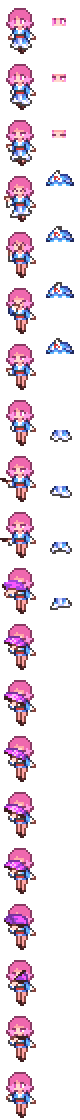
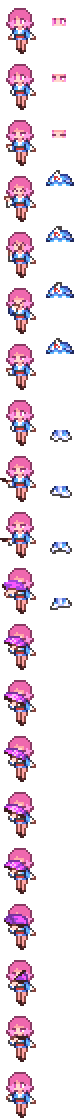
音效添加，幽幽子贴图修复

Changed region(s): [[0.125, 0.125, 0.4, 0.2188], [0.125, 0.0312, 0.4, 0.0938]]

diff --git a/Content/Projectiles/Pets/Yuyuko.cs b/Content/Projectiles/Pets/Yuyuko.cs
@@ -1,6 +1,8 @@
 using Microsoft.Xna.Framework;
 using Microsoft.Xna.Framework.Graphics;
+using System;
 using Terraria;
+using Terraria.Audio;
 using Terraria.ID;
 using Terraria.Utilities;
 using TouhouPets.Content.Buffs.PetBuffs;
@@ -51,10 +53,9 @@ namespace TouhouPets.Content.Projectiles.Pets
 
             Main.instance.LoadItem(food.type);
             Texture2D t = AltVanillaFunction.ItemTexture(food.type);
-            int dist = Projectile.spriteDirection == -1 ? -10 : 10;
-            Vector2 pos = Projectile.Center + new Vector2(dist, -3) + new Vector2(extraAdjX, extraAdjY) - Main.screenPosition + new Vector2(0, 7f * Main.essScale);
+            Vector2 pos = Projectile.Center + new Vector2(10 * Projectile.spriteDirection, -3) + new Vector2(extraAdjX, extraAdjY) - Main.screenPosition + new Vector2(0, 7f * Main.essScale);
             int height = t.Height / 3;
-            Rectangle rect = new Rectangle(0, height, t.Width, height);
+            Rectangle rect = new Rectangle(0, height * (food.type == ItemID.Ale ? 2 : 1), t.Width, height);
             Vector2 orig = rect.Size() / 2;
             Color clr = Projectile.GetAlpha(lightColor);
             SpriteEffects effect = Projectile.spriteDirection == -1 ? SpriteEffects.None : SpriteEffects.FlipHorizontally;
@@ -147,6 +148,34 @@ namespace TouhouPets.Content.Projectiles.Pets
                 }
             }
         }
+        private void EmitFoodParticles(Item sItem)
+        {
+            Color[] array = ItemID.Sets.FoodParticleColors[sItem.type];
+            if (array != null && array.Length != 0 && Main.rand.NextBool(2))
+            {
+                Vector2? mouthPosition = Projectile.Center + new Vector2(10 * Projectile.spriteDirection, -3)
+                    + new Vector2(extraAdjX, extraAdjY) + new Vector2(0, 7f * Main.essScale);
+                if (mouthPosition.HasValue)
+                {
+                    Vector2 vector = mouthPosition.Value + Main.rand.NextVector2Square(-4f, 4f);
+                    Vector2 spinningpoint = new Vector2(Projectile.spriteDirection, 0);
+                    Dust.NewDustPerfect(vector, 284, 1.3f * spinningpoint.RotatedBy((float)Math.PI / 5f * Main.rand.NextFloatDirection()), 0, array[Main.rand.Next(array.Length)], 0.8f + 0.2f * Main.rand.NextFloat()).fadeIn = 0f;
+                }
+            }
+
+            Color[] array2 = ItemID.Sets.DrinkParticleColors[sItem.type];
+            if (array2 != null && array2.Length != 0)
+            {
+                Vector2? mouthPosition = Projectile.Center + new Vector2(10 * Projectile.spriteDirection, -3)
+                    + new Vector2(extraAdjX, extraAdjY) + new Vector2(0, 7f * Main.essScale);
+                if (mouthPosition.HasValue)
+                {
+                    Vector2 vector = mouthPosition.Value + Main.rand.NextVector2Square(-4f, 4f);
+                    Vector2 spinningpoint = new Vector2(Projectile.spriteDirection * 0.1f, 0);
+                    Dust.NewDustPerfect(vector, 284, 1.3f * spinningpoint.RotatedBy(-(float)Math.PI / 5f * Main.rand.NextFloatDirection()), 0, array2[Main.rand.Next(array2.Length)] * 0.7f, 0.8f + 0.2f * Main.rand.NextFloat()).fadeIn = 0f;
+                }
+            }
+        }
         private void Eat()
         {
             if (food == null || food.type == ItemID.None)
@@ -176,6 +205,12 @@ namespace TouhouPets.Content.Projectiles.Pets
             }
             else
             {
+                if (Projectile.frame == 5)
+                {
+                    EmitFoodParticles(food);
+                    if (Projectile.frameCounter == 1 && food.UseSound != null)
+                        AltVanillaFunction.PlaySound((SoundStyle)food.UseSound, Projectile.Center);
+                }
                 if (Projectile.frame > 6)
                 {
                     Projectile.frame = 0;
@@ -241,7 +276,7 @@ namespace TouhouPets.Content.Projectiles.Pets
         }
         private void UpdateTalking()
         {
-            if (mainTimer % 840 == 0 && Main.rand.NextBool(6) && mainTimer > 0 && PetState < 2)
+            if (mainTimer % 960 == 0 && Main.rand.NextBool(9) && mainTimer > 0 && PetState < 2)
             {
                 SetChat(myColor);
             }

diff --git a/Content/Projectiles/Pets/Wriggle.cs b/Content/Projectiles/Pets/Wriggle.cs
@@ -2,7 +2,6 @@
 using Microsoft.Xna.Framework.Graphics;
 using System.Collections.Generic;
 using Terraria;
-using Terraria.DataStructures;
 using Terraria.ID;
 using Terraria.Utilities;
 using TouhouPets.Content.Buffs.PetBuffs;
@@ -115,6 +114,9 @@ namespace TouhouPets.Content.Projectiles.Pets
             {
                 if (Projectile.frame > 2)
                     Projectile.frame = 2;
+
+                if (extraAI[1] == 0)
+                    AltVanillaFunction.PlaySound(SoundID.Pixie, Projectile.Center);
                 extraAI[1]++;
                 if (extraAI[1] % 2 == 0 &&
                    player.ownedProjectileCounts[ProjectileType<WriggleFirefly>()] < 100)
@@ -126,7 +128,7 @@ namespace TouhouPets.Content.Projectiles.Pets
                             , new Vector2(Main.rand.NextFloat(-0.5f, 0.5f), Main.rand.NextFloat(-0.5f, 0.5f)), ProjectileType<WriggleFirefly>(), 0, 0, Main.myPlayer
                             , FireflyType(player), Main.rand.Next(0, 2));
                     }
-                }
+                }                
                 if (extraAI[1] > extraAI[2])
                 {
                     extraAI[1] = 0;
@@ -195,6 +197,7 @@ namespace TouhouPets.Content.Projectiles.Pets
                 NPCID.OrangeDragonfly,
                 NPCID.RedDragonfly,
                 NPCID.YellowDragonfly,
+                NPCID.Stinkbug
             };
         }
         private void AttractInsect()
@@ -267,7 +270,7 @@ namespace TouhouPets.Content.Projectiles.Pets
 
             ChangeDir(player, true);
             MoveToPoint(point, 14f);
-            if (mainTimer % 30 == 0 && CanGenFireFly(player))
+            if (mainTimer % (PetState == 2 ? 15 : 30) == 0 && CanGenFireFly(player))
             {
                 Projectile.NewProjectile(Projectile.GetSource_FromThis(), Projectile.Center + new Vector2(Main.rand.Next(-40, 40), Main.rand.Next(-40, 40))
                             , new Vector2(Main.rand.NextFloat(-0.5f, 0.5f), Main.rand.NextFloat(-0.5f, 0.5f)), ProjectileType<WriggleFirefly>(), 0, 0, Main.myPlayer

diff --git a/Content/Projectiles/Pets/Nitori.cs b/Content/Projectiles/Pets/Nitori.cs
@@ -152,7 +152,8 @@ namespace TouhouPets.Content.Projectiles.Pets
                         Gore.NewGoreDirect(Projectile.GetSource_FromAI()
                             , Projectile.Center + new Vector2(Main.rand.Next(-8, 8), Main.rand.Next(-8, 8))
                             , new Vector2(Main.rand.Next(-3, 3) * 0.15f, Main.rand.Next(-3, 3) * 0.15f)
-                            , Main.rand.Next(GoreID.Smoke1, GoreID.Smoke3 + 1), Main.rand.NextFloat(0.75f, 1.25f)); ;
+                            , Main.rand.Next(GoreID.Smoke1, GoreID.Smoke3 + 1), Main.rand.NextFloat(0.75f, 1.25f));
+                    AltVanillaFunction.PlaySound(SoundID.Item14, Projectile.position);
                 }
                 else if (Main.rand.NextBool(2))
                 {

diff --git a/Content/Projectiles/Pets/Aya.cs b/Content/Projectiles/Pets/Aya.cs
@@ -126,6 +126,7 @@ namespace TouhouPets.Content.Projectiles.Pets
                     {
                         flash = 1;
                         flashChance -= 2;
+                        AltVanillaFunction.PlaySound(SoundID.Camera, Projectile.Center);
                     }
                 }
             }
